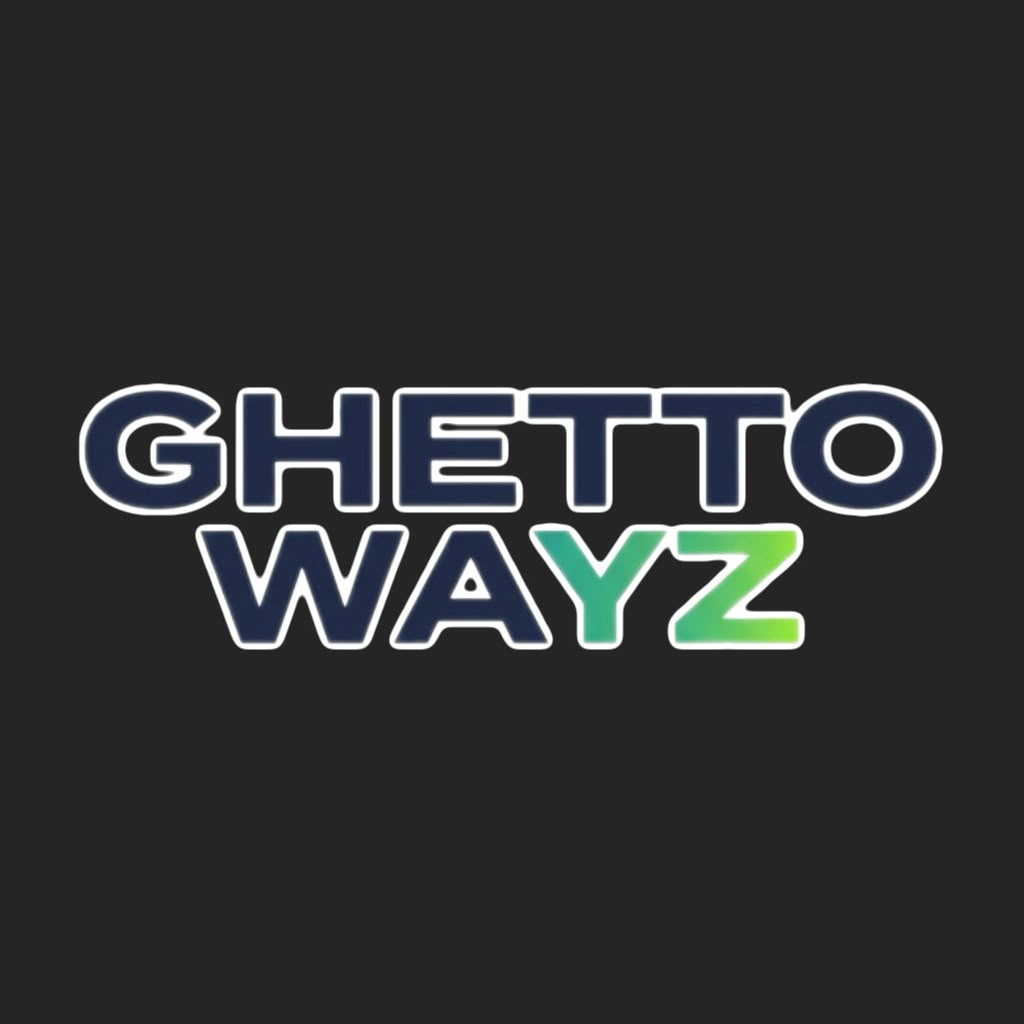
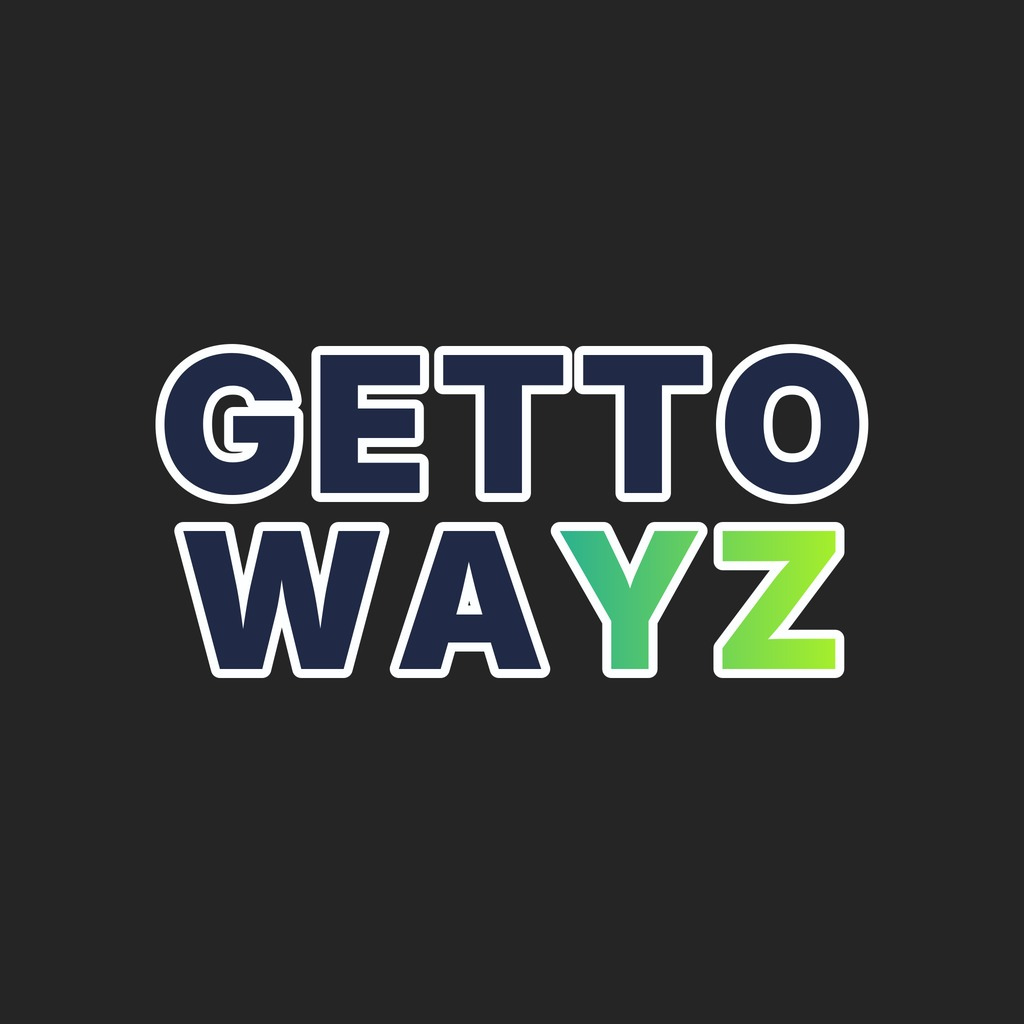
Rename the app to GettoWayz
App title, home-screen name, page titles, in-app text, README and the wordmark
now say GettoWayz. Repo name, web address and saved-data keys are unchanged.
Cache bumped to gw-shell-v15.

Claude-Session: https://claude.ai/code/session_016ovuSo6M1SBYRQthfMn7Ye

Changed region(s): [[0.0625, 0.3125, 0.9375, 0.6875]]

diff --git a/js/ui/friends.js b/js/ui/friends.js
@@ -40,7 +40,7 @@ export async function renderFriendsPage(ctx, page) {
   page.setActions();
   if (!state.user) return guestState(ctx, {
     icon: '🫂', title: 'Friends & trip sharing',
-    text: 'Add friends by their Ghetto Wayz ID, then choose — one trip at a time — who can follow your route.',
+    text: 'Add friends by their GettoWayz ID, then choose — one trip at a time — who can follow your route.',
     bullets: ['Nobody sees you unless you accept them as a friend', 'Sharing is always with one friend and time-limited', 'Your live location is never shown without your say-so'],
     action: 'add friends and share trips',
   });
@@ -69,7 +69,7 @@ export async function renderFriendsPage(ctx, page) {
   const idRow = el('div', { class: 'hero idcard' },
     el('div', { class: 'row' }, avatar(state.user.alias, { size: 44 }),
       el('div', { style: 'flex:1;min-width:0' },
-        el('div', { class: 'small muted' }, 'Your Ghetto Wayz ID'),
+        el('div', { class: 'small muted' }, 'Your GettoWayz ID'),
         el('code', { class: 'gwid' }, social.gwId)),
       el('button', { class: 'btn sm', onclick: (e) => copyText(social.gwId, e.currentTarget) }, 'Copy')),
     el('div', { class: 'small', style: 'color:var(--text-3);margin-top:8px' }, 'Share it with people you want to add. It reveals only your alias — never your location, email or points.'));
@@ -154,7 +154,7 @@ function friendsTab(ctx, social, shares) {
               f.sample ? el('button', { class: 'btn sm ghost', onclick: async () => { try { await ctx.backend.demoSimulateIncomingTrip(f.id); ctx.showTab('map'); toast('Sample trip started — this is scripted demo movement, not a real person', 'success'); } catch (e) { toast(e.message, 'error'); } } }, '▶ Simulate their trip') : null,
               el('button', { class: 'btn sm ghost', 'aria-label': `More options for ${esc(f.alias)}`, onclick: () => openFriendOptions(ctx, f) }, '⋯'))));
       }))
-    : el('div', { class: 'empty' }, el('div', { class: 'big', 'aria-hidden': 'true' }, '🫂'), 'No friends yet. Add someone by their Ghetto Wayz ID above.');
+    : el('div', { class: 'empty' }, el('div', { class: 'big', 'aria-hidden': 'true' }, '🫂'), 'No friends yet. Add someone by their GettoWayz ID above.');
 
   return el('div', {},
     el('div', { class: 'field' }, el('label', { for: 'friendIdInput' }, 'Add a friend by ID'), el('div', { class: 'row' }, idInput, find), el('span', { class: 'hint' }, `They must accept before either of you can see the other. Limit ${FRIEND_LIMITS.idLookupsPerHour} searches/hour, ${FRIEND_LIMITS.requestsPerDay} requests/day.`)),

diff --git a/js/ui/account.js b/js/ui/account.js
@@ -32,7 +32,7 @@ export function colourwayPicker(ctx) {
     el('div', { class: 'sw', style: `background:${c.bg}` }, el('i', { style: `background:${c.a}` }), el('i', { style: `background:${c.b}` }), el('i', { style: `background:${c.c}` })),
     el('div', { class: 't' }, c.name), el('div', { class: 's' }, c.desc))));
   render();
-  return el('div', {}, el('img', { class: 'wordmark', src: 'icons/wordmark.jpg', alt: 'Ghetto Wayz' }), el('h3', { style: 'font-size:14px;margin:0 0 8px' }, 'Colourway'), grid,
+  return el('div', {}, el('img', { class: 'wordmark', src: 'icons/wordmark.jpg', alt: 'GettoWayz' }), el('h3', { style: 'font-size:14px;margin:0 0 8px' }, 'Colourway'), grid,
     el('p', { class: 'small muted', style: 'margin-top:8px' }, 'All three use the logo palette (navy, lime, teal). Your choice is remembered on this device.'));
 }
 export function openAppearance(ctx) { openModal('Appearance', [colourwayPicker(ctx)]); }
@@ -165,7 +165,7 @@ export async function renderProfilePage(ctx, page) {
         el('div', { class: 'hero-name' }, u.alias, u.role === 'admin' ? el('span', { class: 'chip accent', style: 'margin-left:8px;vertical-align:middle' }, 'Moderator') : null),
         el('div', { class: 'hero-sub' }, `Level ${lv.level.n} · ${lv.level.name}`),
         gwId ? el('div', { class: 'row', style: 'gap:6px;margin-top:4px' }, el('code', { class: 'gwid', style: 'font-size:14px' }, gwId),
-          el('button', { class: 'btn sm ghost', style: 'height:30px', 'aria-label': 'Copy your Ghetto Wayz ID', onclick: (e) => { navigator.clipboard?.writeText(gwId).then(() => toast('ID copied')).catch(() => {}); } }, 'Copy')) : null)),
+          el('button', { class: 'btn sm ghost', style: 'height:30px', 'aria-label': 'Copy your GettoWayz ID', onclick: (e) => { navigator.clipboard?.writeText(gwId).then(() => toast('ID copied')).catch(() => {}); } }, 'Copy')) : null)),
     el('div', { class: 'levelbar', role: 'progressbar', 'aria-label': 'Progress to next level', 'aria-valuemin': '0', 'aria-valuemax': '100', 'aria-valuenow': String(Math.round(lv.progress * 100)), style: 'margin-top:14px' }, el('i', { style: `width:${Math.round(lv.progress * 100)}%` })),
     el('div', { class: 'row between small muted' }, el('span', {}, lv.next ? `${lv.toNext} pts to ${lv.next.name}` : 'Top level reached'), el('span', {}, sum ? `+${sum.week} this week` : '')),
     el('div', { class: 'hero-stats' },

diff --git a/js/app.js b/js/app.js
@@ -1,4 +1,4 @@
-// Ghetto Wayz — app entry: wires map, routing, search, navigation and the community screens.
+// GettoWayz — app entry: wires map, routing, search, navigation and the community screens.
 import { config, integrations } from './config.js';
 import { $, $$, el, esc, haversine, distanceToLine, fmtDistance, fmtDuration, bearing, MODES, uid } from './util.js';
 import { state, set, subscribe, selectedRoute } from './state.js';
@@ -362,7 +362,7 @@ function stopWatch() { if (watchId != null) { navigator.geolocation.clearWatch(w
 $('#locateBtn').addEventListener('click', () => {
   if (state.position) { ctx.map.flyTo([state.position.lat, state.position.lng], 16); return; }
   openModal('Use your location?', [
-    el('p', {}, 'Ghetto Wayz uses your location to show where you are, plan routes from here and follow the route while navigating.'),
+    el('p', {}, 'GettoWayz uses your location to show where you are, plan routes from here and follow the route while navigating.'),
     el('p', { class: 'muted small' }, 'Your location stays on this device. We do not store a history of where you go, and your reports never include your live position.'),
     el('div', { class: 'row' }, el('button', { class: 'btn primary', onclick: () => { closeModal(); locate(); } }, 'Allow'), el('button', { class: 'btn', onclick: closeModal }, 'Not now')),
   ]);
@@ -633,7 +633,7 @@ function beginNavigation(r) {
   if (state.position) { onNavTick(state.position); locate({ follow: true }); }
   else {
     openModal('Follow along?', [
-      el('p', {}, 'To follow your progress, Ghetto Wayz needs your location while navigating. Without it, you can still read the directions.'),
+      el('p', {}, 'To follow your progress, GettoWayz needs your location while navigating. Without it, you can still read the directions.'),
       el('div', { class: 'row' }, el('button', { class: 'btn primary', onclick: () => { closeModal(); locate({ follow: true }); } }, 'Use location'), el('button', { class: 'btn', onclick: () => { closeModal(); showStep(0, r); } }, 'Just show steps')),
     ]);
     showStep(0, r);

diff --git a/index.html b/index.html
@@ -3,8 +3,8 @@
 <head>
   <meta charset="utf-8" />
   <meta name="viewport" content="width=device-width, initial-scale=1, viewport-fit=cover" />
-  <title>Ghetto Wayz</title>
-  <meta name="description" content="Ghetto Wayz — routes for walking, cycling and scooters, with community-reported paths and alerts." />
+  <title>GettoWayz</title>
+  <meta name="description" content="GettoWayz — routes for walking, cycling and scooters, with community-reported paths and alerts." />
   <meta name="theme-color" content="#16181f" />
   <meta name="apple-mobile-web-app-capable" content="yes" />
   <meta name="apple-mobile-web-app-status-bar-style" content="black-translucent" />
@@ -30,7 +30,7 @@
 
     <!-- TOP BAR -->
     <header class="topbar">
-      <button class="brand" id="brandBtn" aria-label="Ghetto Wayz home">
+      <button class="brand" id="brandBtn" aria-label="GettoWayz home">
         <span class="brand-mark" aria-hidden="true"></span>
         <span class="brand-name">Ghetto <em>Wayz</em></span>
       </button>

diff --git a/sw.js b/sw.js
@@ -1,6 +1,6 @@
-/* Ghetto Wayz service worker — caches the app shell for offline launch.
+/* GettoWayz service worker — caches the app shell for offline launch.
    Map tiles, routing and search are network-only (never cached as "live"). */
-const CACHE = 'gw-shell-v14';
+const CACHE = 'gw-shell-v15';
 const SHELL = [
   './', './index.html', './css/app.css', './manifest.webmanifest', './icons/icon.svg',
   './js/app.js', './js/config.js', './js/util.js', './js/map.js', './js/basemap.js', './js/state.js',

diff --git a/js/ui/tabs.js b/js/ui/tabs.js
@@ -107,7 +107,7 @@ export function showTab(key, opts = {}) {
     if (refresh || !pages[key].rendered) renderPage(key);
     if (focus && !anchor) requestAnimationFrame(() => pages[key].heading.focus({ preventScroll: true }));
   }
-  document.title = key === 'map' ? 'Ghetto Wayz' : `${pages[key].title} · Ghetto Wayz`;
+  document.title = key === 'map' ? 'GettoWayz' : `${pages[key].title} · GettoWayz`;
   // history
   const url = urlFor(key);
   const write = () => {

diff --git a/js/basemap.js b/js/basemap.js
@@ -1,4 +1,4 @@
-// Basemap — vector tiles (OpenFreeMap, no key) rendered by MapLibre GL inside Leaflet, recoloured to the Ghetto Wayz palette.
+// Basemap — vector tiles (OpenFreeMap, no key) rendered by MapLibre GL inside Leaflet, recoloured to the GettoWayz palette.
 // Falls back to raster OSM tiles (with the CSS dark filter) if WebGL/MapLibre is unavailable.
 /* global L, maplibregl */
 import { config } from './config.js';

diff --git a/js/ui/avatar.js b/js/ui/avatar.js
@@ -1,4 +1,4 @@
-// Initial-based avatars. Ghetto Wayz has no photo uploads, so an avatar is the first letter of the alias on a
+// Initial-based avatars. GettoWayz has no photo uploads, so an avatar is the first letter of the alias on a
 // colour picked from the brand palette (stable per alias). Nothing personal is encoded in it.
 import { el } from '../util.js';
 

diff --git a/js/backend/pointsPolicy.js b/js/backend/pointsPolicy.js
@@ -1,4 +1,4 @@
-// Ghetto Wayz points policy — the ONE place point values, caps, trip bands, levels and leaderboard
+// GettoWayz points policy — the ONE place point values, caps, trip bands, levels and leaderboard
 // periods are defined.
 //
 // • Demo mode uses these values directly.

diff --git a/css/app.css b/css/app.css
@@ -1,4 +1,4 @@
-/* Ghetto Wayz — design tokens & app styles */
+/* GettoWayz — design tokens & app styles */
 :root {
   /* Colourway A — "Night Route" (default): charcoal ground, navy surfaces, lime accent, teal secondary. From the logo. */
   --bg: #16181f;

diff --git a/README.md b/README.md
@@ -1,4 +1,4 @@
-# Ghetto Wayz
+# GettoWayz
 
 A mobile-first, installable (PWA) navigation app for people who walk, cycle or scoot. Plan routes, see community-reported hazards, suggest missing paths, and earn points when moderators approve your contributions.
 
@@ -219,7 +219,7 @@ Five tabs, the same everywhere: **Leaderboard · Friends · Map · Activity · P
 | Tab | What's on it |
 |---|---|
 | Leaderboard | Your rank and points for the chosen board (Everyone / Friends × This week / All-time), top three, full list, who-can-see-me switches, link to the points rules |
-| Friends | “Sharing now” card with Stop, your Ghetto Wayz ID, add by ID, friends, requests, sharing history; *Share a trip* uses the route planned on the map |
+| Friends | “Sharing now” card with Stop, your GettoWayz ID, add by ID, friends, requests, sharing history; *Share a trip* uses the route planned on the map |
 | Map | Search, travel mode, routes, navigation, report / add path, layers and a full map legend |
 | Activity | “Needs you” (friend requests, trip invitations, requested changes) and a feed of trips, points, contributions and sharing, filterable |
 | Profile | Avatar, ID, level and progress, level milestones, contributions, location sharing, privacy, notifications, accessibility, app settings |
